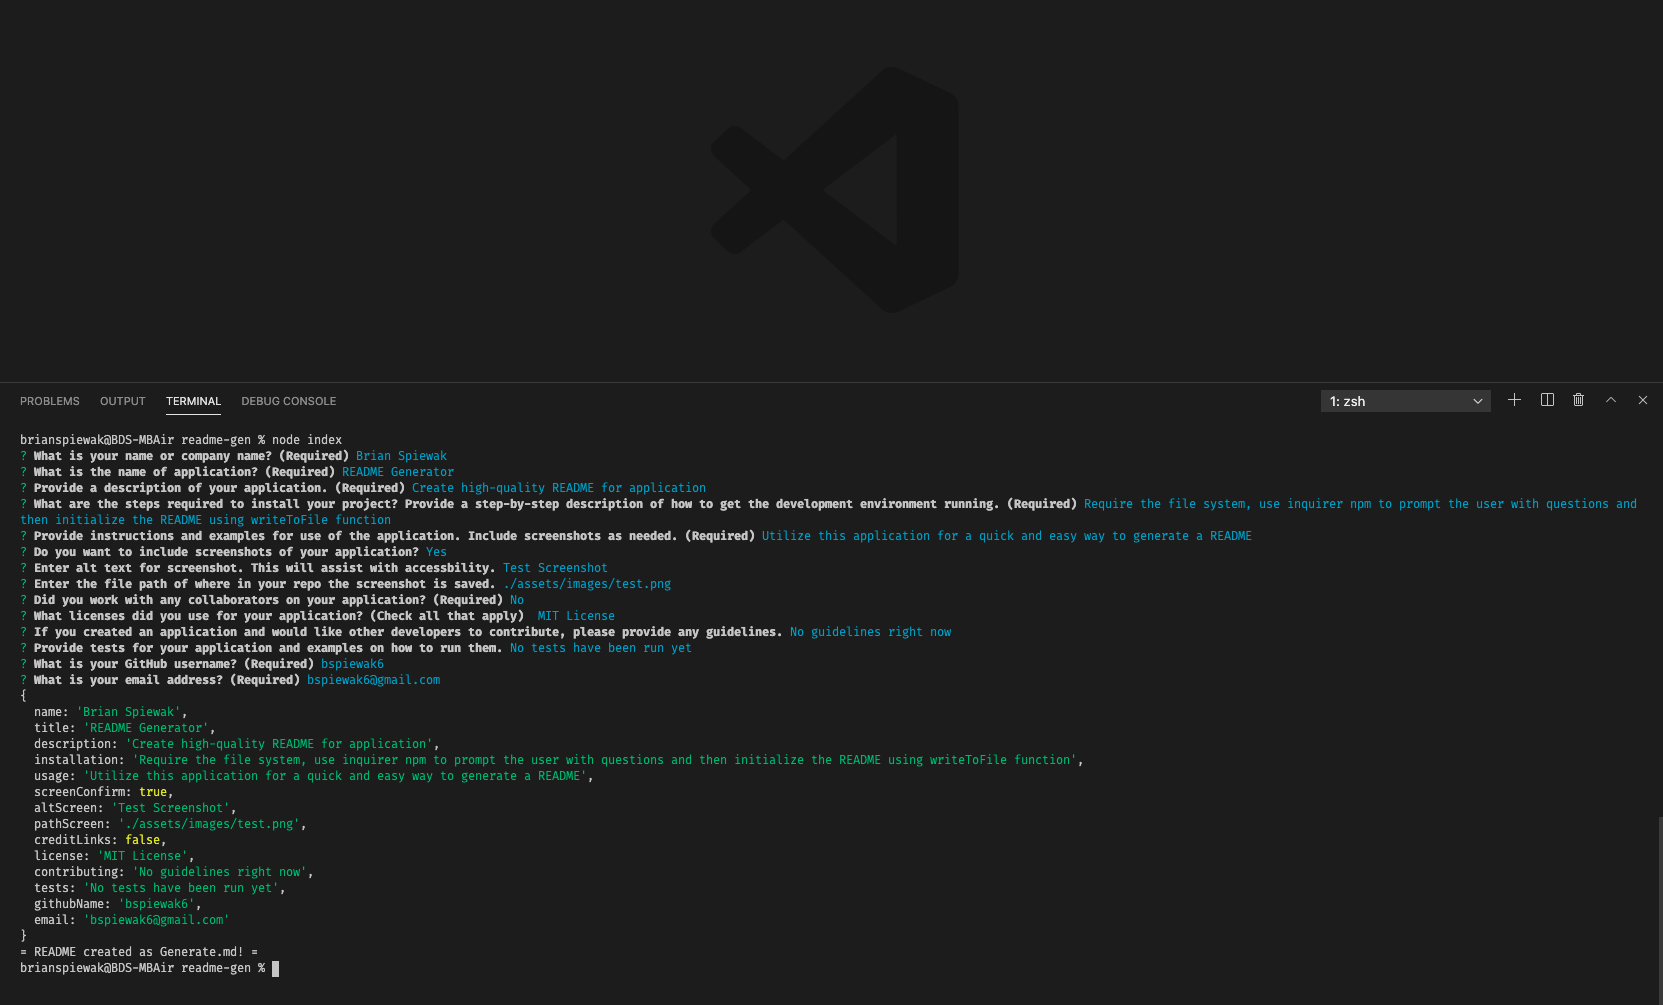
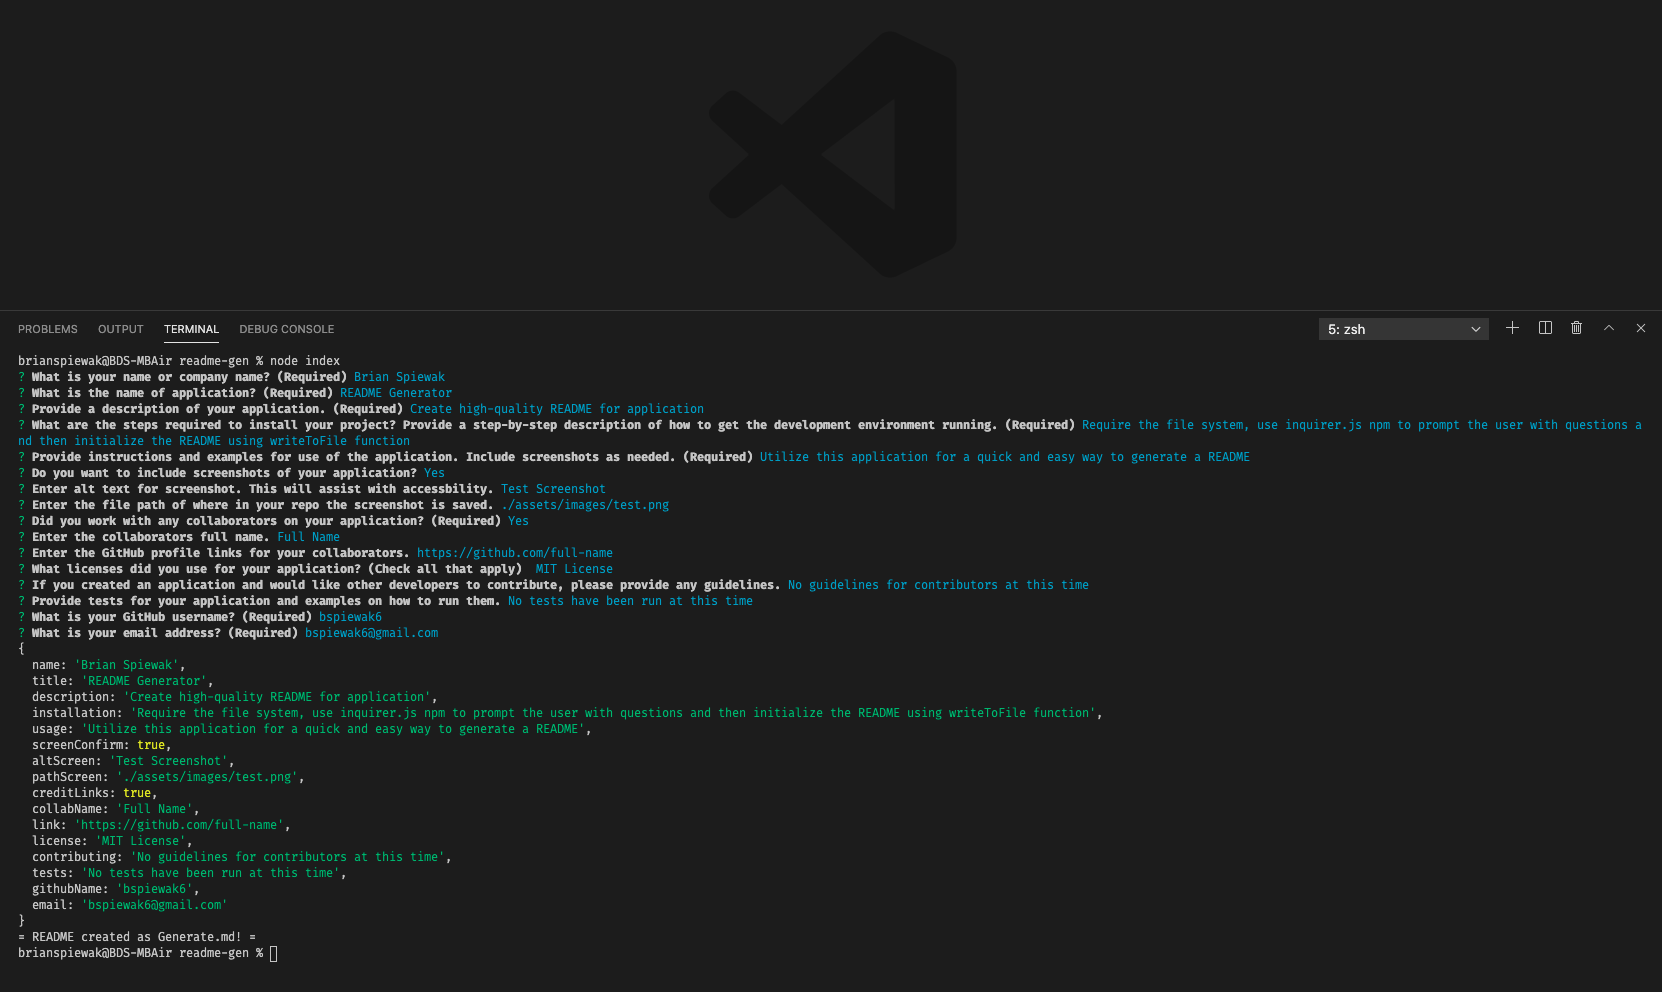
updated final README

diff --git a/index.js b/index.js
@@ -2,7 +2,6 @@
 const inquirer = require('inquirer');
 const generateMarkdown = require('./utils/generateMarkdown');
 const fs = require('fs');
-const path = require('path');
 
 // array of questions for user using inquirer
 const questions = () => {

diff --git a/Generate.md b/Generate.md
@@ -17,7 +17,7 @@
   * [Questions](#questions)
 
   ## Installation
-  Require the file system, use inquirer npm to prompt the user with questions and then initialize the README using writeToFile function
+  Require the file system, use inquirer.js npm to prompt the user with questions and then initialize the README using writeToFile function
 
   ## Usage
   Utilize this application for a quick and easy way to generate a README  
@@ -27,7 +27,7 @@
   ## Credits
   Full Name  
 
-  www.github.io/FullName
+  https://github.com/full-name
 
   ## License
   Copyright (c) Brian Spiewak. All rights reserved.  
@@ -35,10 +35,10 @@
   This application is licensed under MIT License
 
   ## Contributing
-  No guidelines right now
+  No guidelines for contributors at this time
 
   ## Tests
-  No tests have been run yet
+  No tests have been run at this time
 
   ## Questions
   * GitHub Username: bspiewak6  

diff --git a/README.md b/README.md
@@ -38,7 +38,7 @@ THEN I am taken to the corresponding section of the README <br />
 ## Technologies
 1. JavaScript
 2. Node.js
-3. Inquirer NPM
+3. Inquirer.js
 
 ## Screenshots
 ![Screenshot of command line with questions and answers](./assets/images/Screenshot1.png)
@@ -49,5 +49,5 @@ THEN I am taken to the corresponding section of the README <br />
 
 ## Links
 * [README Generator Walkthrough Video]()
-* [README Generated File]()
+* [README Generated File called Generate.md](https://drive.google.com/file/d/1iVBkwuHtlqmxUxDIQlBdLDv2CPCbYN98/view?usp=sharing)
 * [README Generator Repository](https://github.com/bspiewak6/readme-gen)
